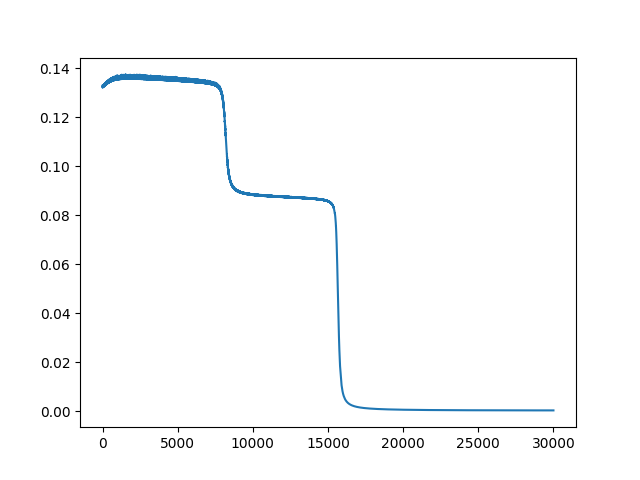
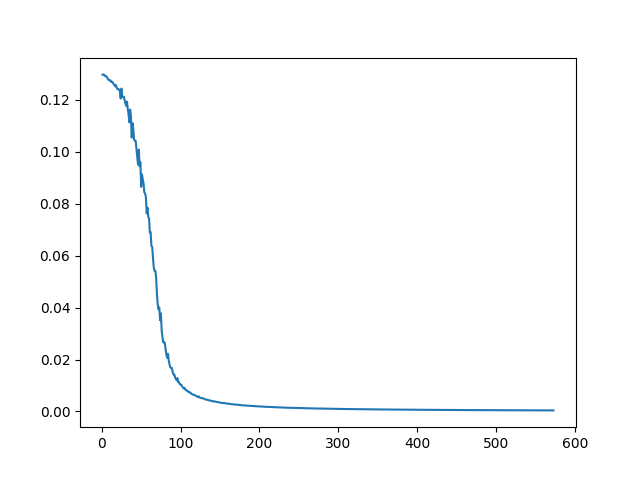
Added a break condition

diff --git a/main.py b/main.py
@@ -108,10 +108,11 @@ class Network:
         self.errors.append(self.layers[-1].error(ground_truth))
 
 
-def example_train(train_in, train_out, network: Network):
+def example_train(train_in, train_out, network: Network, delta_cutoff=-1e-6, error_cutoff=0.01):
     data = list(zip(train_in, train_out))
     possible_datapoints = list(range(len(train_in)))
-    errors = [np.inf]
+    errors = [-np.inf]
+    error_deltas = []
     lr_max = 0.55
     lr_min = 0.02
     num_epochs = 30000
@@ -127,8 +128,11 @@ def example_train(train_in, train_out, network: Network):
         error = network.return_reset_error()
         error_delta = error - errors[-1]
         errors.append(error)
+        error_deltas.append(error_delta)
         print("Error:", error, "Delta", error_delta)
         print("\n")
+        if i > 50 and error < error_cutoff and np.mean(error_deltas[-50:]) > delta_cutoff:
+            break
     plt.plot(errors)
     plt.savefig("errors.png")
 
@@ -138,8 +142,8 @@ if __name__ == "__main__":
     np.random.seed(0)
 
     net = Network()
-    net.add_layer(Layer(2, 2, Activation.SIGMOID))
-    net.add_layer(Layer(2, 2, Activation.SIGMOID))
+    net.add_layer(Layer(2, 4, Activation.RELU))
+    net.add_layer(Layer(4, 2, Activation.RELU))
     net.add_layer(Layer(2, 1, Activation.SIGMOID))
 
     # test_data = np.array([5, 3])
